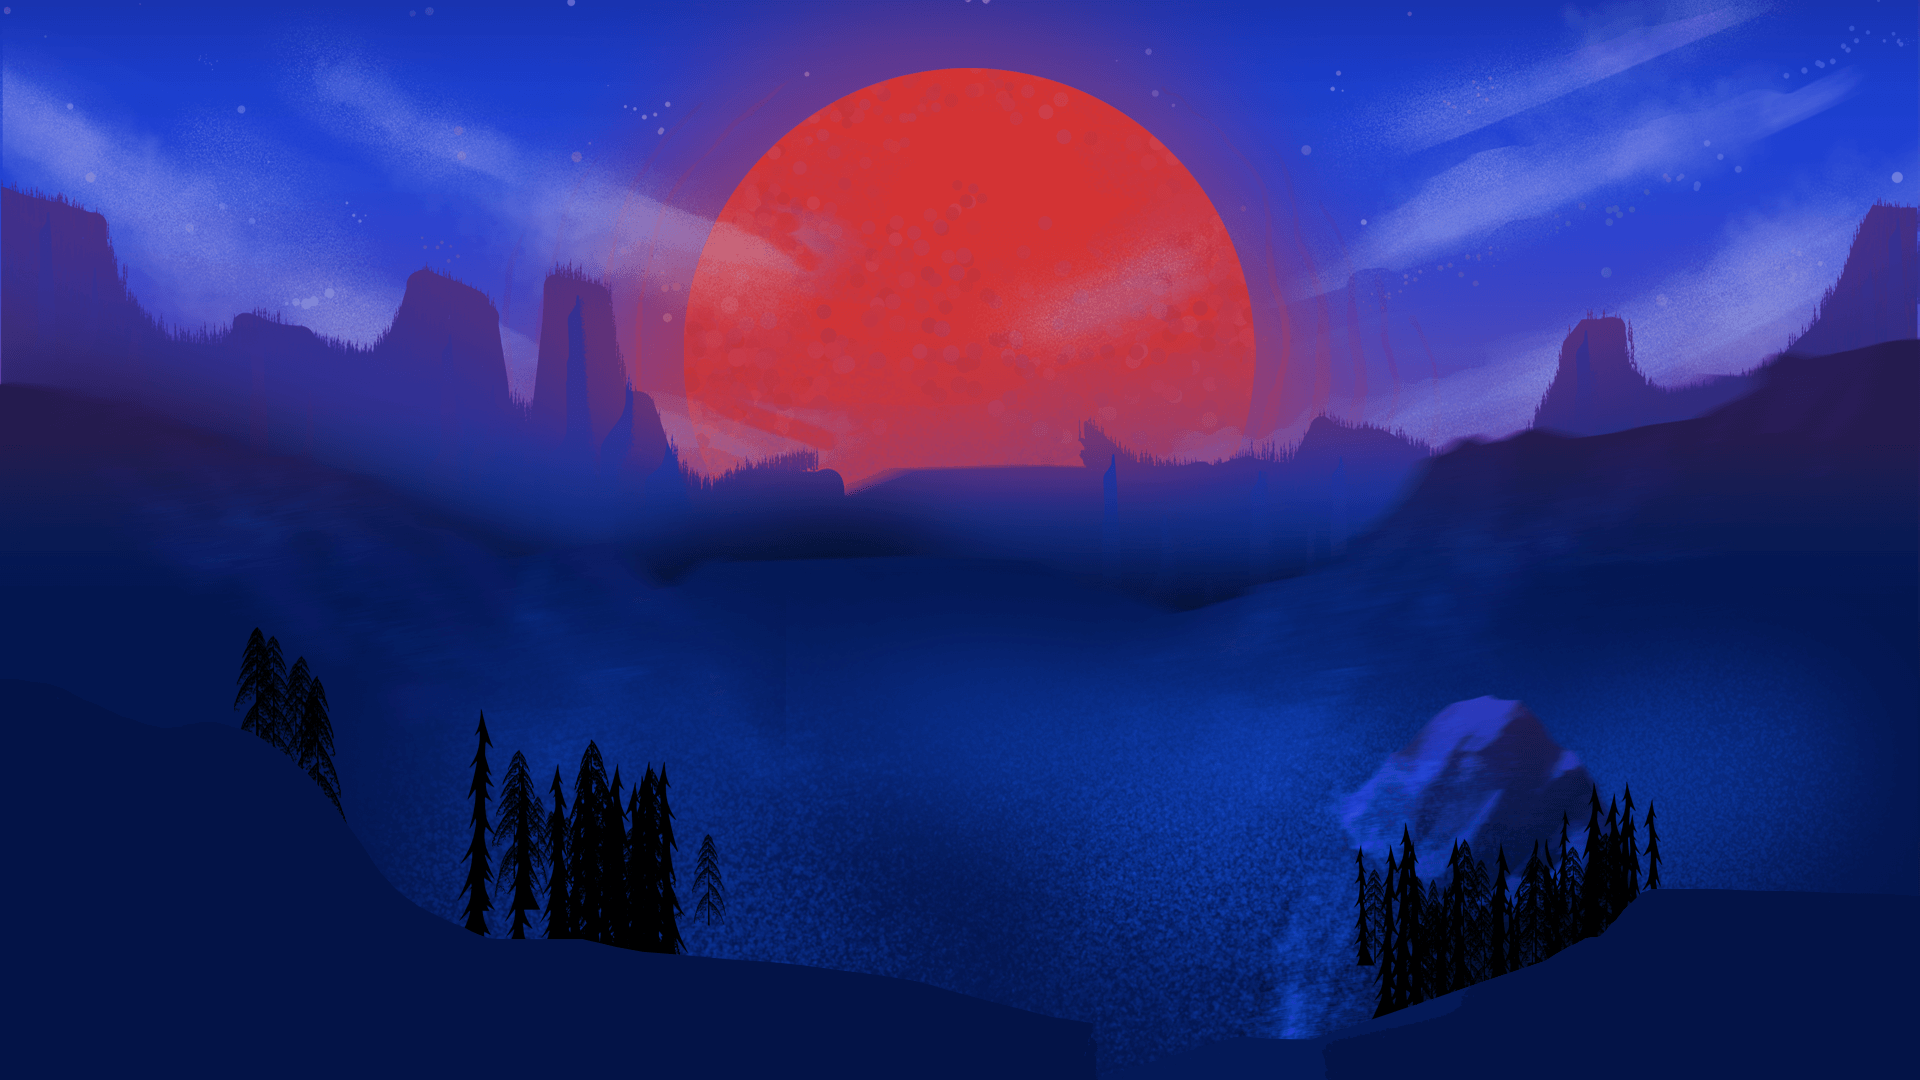
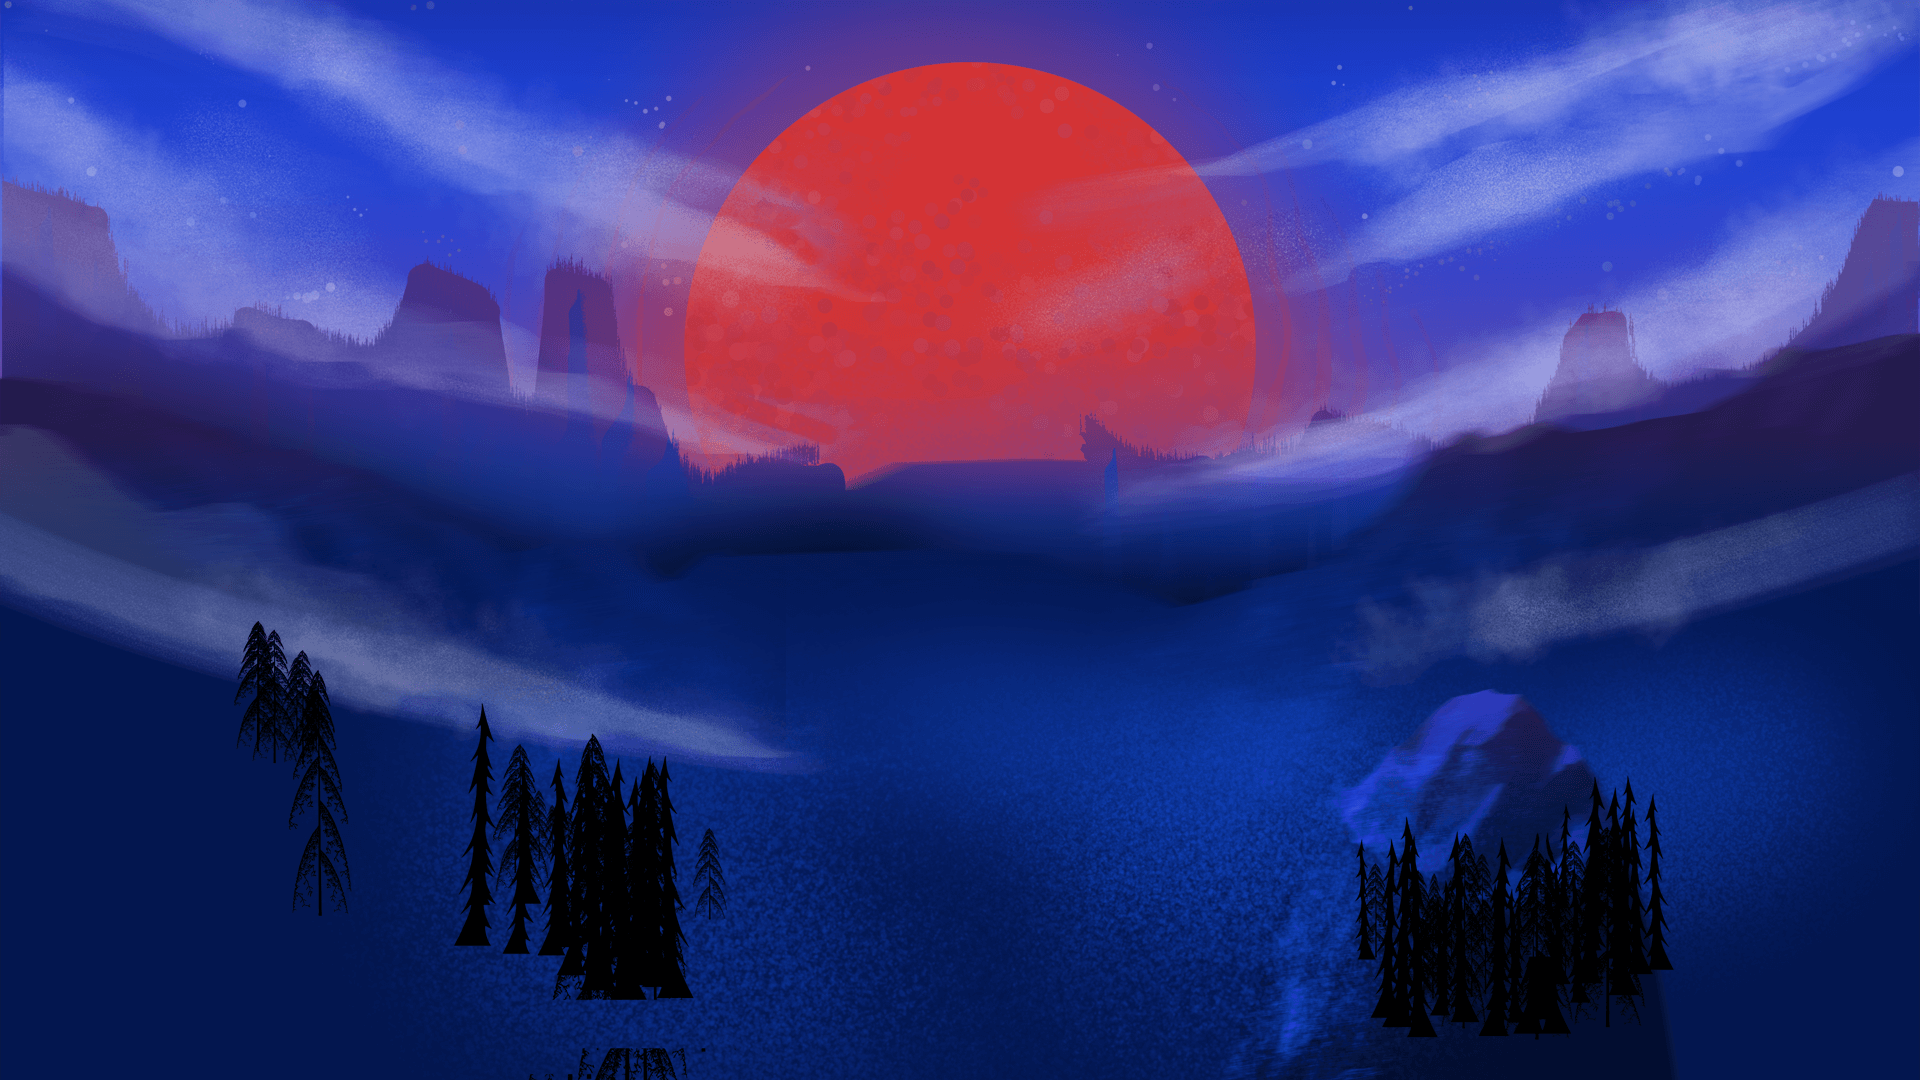
SS Section - SS2 Game Page

diff --git a/src/app/components/silentscream2page/SS2CastSection.js b/src/app/components/silentscream2page/SS2CastSection.js
@@ -56,7 +56,7 @@ const items = [
             width={350}
             height={668}
             alt="John"
-            className="w-[290px] md:w-[350px] h-[313px] md:h-[450px] object-cover object-top"
+            className="w-[200px] md:w-[350px] h-[216px] md:h-[450px] object-cover object-top"
           />
         </div>
         <div
@@ -99,7 +99,7 @@ const items = [
             width={393}
             height={650}
             alt="Alan"
-            className="w-[290px] md:w-[350px] h-[313px] md:h-[450px] object-cover object-top"
+            className="w-[200px] md:w-[350px] h-[216px] md:h-[450px] object-cover object-top"
           />
         </div>
         <div
@@ -148,7 +148,7 @@ const items = [
             width={363}
             height={644}
             alt="Chad"
-            className="w-[290px] md:w-[350px] h-[313px] md:h-[450px] object-cover object-top"
+            className="w-[200px] md:w-[350px] h-[216px] md:h-[450px] object-cover object-top"
           />
         </div>
         <div
@@ -193,7 +193,7 @@ const items = [
             width={304}
             height={667}
             alt="Tiffany"
-            className="w-[290px] md:w-[350px] h-[313px] md:h-[450px] object-cover object-top"
+            className="w-[200px] md:w-[350px] h-[216px] md:h-[450px] object-cover object-top"
           />
         </div>
         <div
@@ -240,7 +240,7 @@ const items = [
             width={373}
             height={678}
             alt="Edger"
-            className="w-[290px] md:w-[350px] h-[313px] md:h-[450px] object-cover object-top"
+            className="w-[200px] md:w-[350px] h-[216px] md:h-[450px] object-cover object-top"
           />
         </div>
         <div
@@ -292,7 +292,7 @@ const items = [
             width={296}
             height={637}
             alt="Linda"
-            className="w-[290px] md:w-[350px] h-[313px] md:h-[450px] object-cover object-top"
+            className="w-[200px] md:w-[350px] h-[216px] md:h-[450px] object-cover object-top"
           />
         </div>
         <div
@@ -334,7 +334,7 @@ const items = [
             width={344}
             height={648}
             alt="Marcus"
-            className="w-[290px] md:w-[350px] h-[313px] md:h-[450px] object-cover object-top"
+            className="w-[200px] md:w-[350px] h-[216px] md:h-[450px] object-cover object-top"
           />
         </div>
         <div

diff --git a/src/app/components/silentscream2page/ParallaxSection.js b/src/app/components/silentscream2page/ParallaxSection.js
@@ -17,38 +17,30 @@ const ParallaxSection = () => {
       className="w-full h-screen overflow-hidden relative grid place-items-center"
     >
       <motion.div
-        className="absolute inset-0 z-0"
+        className="absolute inset-0 z-0 bg-cover bg-center"
         style={{
           backgroundImage: "url(/assets/ss2-game-page/ss2-hero-bg-layer1.png)",
-          backgroundPosition: "bottom",
-          backgroundSize: "cover",
           y: layer1Y,
         }}
       ></motion.div>
       <motion.div
-        className="absolute inset-0 z-10"
+        className="absolute inset-0 z-10 bg-cover bg-center md:bg-contain"
         style={{
           backgroundImage: "url(/assets/ss2-game-page/ss2-hero-bg-layer2.png)",
-          backgroundPosition: "bottom",
-          backgroundSize: "cover",
           y: layer2Y,
         }}
       ></motion.div>
       <motion.div
-        className="absolute inset-0 z-20"
+        className="absolute inset-0 z-20 bg-cover bg-center"
         style={{
           backgroundImage: "url(/assets/ss2-game-page/ss2-hero-bg-layer3.png)",
-          backgroundPosition: "bottom",
-          backgroundSize: "cover",
           y: layer3Y,
         }}
       ></motion.div>
       <motion.div
-        className="absolute inset-0 z-30"
+        className="absolute inset-0 z-30 bg-cover bg-center md:bg-contain"
         style={{
           backgroundImage: "url(/assets/ss2-game-page/ss2-hero-bg-layer4.png)",
-          backgroundPosition: "bottom",
-          backgroundSize: "cover",
         }}
       ></motion.div>
     </div>

diff --git a/src/app/components/silentscream2page/SS2Screenshots.js b/src/app/components/silentscream2page/SS2Screenshots.js
@@ -22,6 +22,15 @@ const SS2Screenshots = () => {
     setShowModal(true);
   };
 
+  const backgroundClasses = [
+    "bg-ss2-ss-small-bg1",
+    "bg-ss2-ss-small-bg2",
+    "bg-ss2-ss-small-bg3",
+    "bg-ss2-ss-small-bg4",
+    "bg-ss2-ss-small-bg5",
+    "bg-ss2-ss-small-bg6",
+  ];
+
   return (
     <div>
       <div className="w-full flex flex-col justify-center items-center mt-2 mb-6">
@@ -47,7 +56,9 @@ const SS2Screenshots = () => {
             {screenshots.map((screenshot, index) => (
               <div
                 key={index}
-                className="bg-ss2-ss-bg w-[133px] md:w-[368px] h-[182px] md:h-[504px] px-3 md:px-6 pt-5 md:pt-9 pb-7 md:pb-16 transform transition-transform duration-300 hover:scale-105 hover:brightness-110"
+                className={`${backgroundClasses[index % backgroundClasses.length]} w-[133px] md:w-[368px] h-[182px] md:h-[504px] px-3
+                 md:px-6 pt-5 md:pt-9 pb-7 md:pb-16 bg-cover
+                  transform transition-transform duration-300 hover:scale-105 hover:brightness-110`}
                 onClick={() => openModal(screenshot)}
               >
                 <Image

diff --git a/tailwind.config.js b/tailwind.config.js
@@ -19,7 +19,13 @@ module.exports = {
       },
       backgroundImage: {
         "ss2-button-bg": "url('/assets/ss2-game-page/ss2-button1.png')",
-        "ss2-ss-bg": "url('/assets/ss2-game-page/ss2-ss-bg1.png')",
+        "ss2-ss-full-bg": "url('/assets/ss2-game-page/ss2-ss-full-bg.png')",
+        "ss2-ss-small-bg1": "url('/assets/ss2-game-page/ss2-ss-small-bg1.png')",
+        "ss2-ss-small-bg2": "url('/assets/ss2-game-page/ss2-ss-small-bg2.png')",
+        "ss2-ss-small-bg3": "url('/assets/ss2-game-page/ss2-ss-small-bg3.png')",
+        "ss2-ss-small-bg4": "url('/assets/ss2-game-page/ss2-ss-small-bg4.png')",
+        "ss2-ss-small-bg5": "url('/assets/ss2-game-page/ss2-ss-small-bg5.png')",
+        "ss2-ss-small-bg6": "url('/assets/ss2-game-page/ss2-ss-small-bg6.png')",
         "ss2-banner-ls": "url('/assets/ss2-game-page/ss2-back-banner-ls.png')",
         "ss2-banner-lm": "url('/assets/ss2-game-page/ss2-back-banner-lm.png')",
         "ss2-banner-ms": "url('/assets/ss2-game-page/ss2-back-banner-ms.png')",

diff --git a/src/app/components/silentscream2page/SS2GameSSModal.js b/src/app/components/silentscream2page/SS2GameSSModal.js
@@ -1,4 +1,3 @@
-import React from "react";
 import Image from "next/image";
 
 const SS2GameSSModal = ({ isVisible, onClose, screenshot }) => {
@@ -6,16 +5,17 @@ const SS2GameSSModal = ({ isVisible, onClose, screenshot }) => {
 
   return (
     <div
-      className="fixed inset-0 bg-black bg-opacity-25 backdrop-blur-sm flex justify-center items-center"
+      className="fixed inset-0 bg-ss2-ss-full-bg bg-no-repeat bg-black bg-opacity-25 backdrop-blur-sm 
+      flex justify-center items-center bg-center bg-contain z-30"
       onClick={() => onClose()}
     >
-      <div className="bg-black w-[80%] h-[80%]">
+      <div className="flex items-center justify-center">
         <Image
           src={screenshot.src}
           width={1771}
           height={985}
           alt={screenshot.alt}
-          className="h-full object-cover"
+          className="w-[65%] h-[65%] 2xl:w-[75%] 2xl:h-[75%] object-center pb-12"
         />
       </div>
     </div>

diff --git a/src/app/components/silentscream2page/NavbarSS2.js b/src/app/components/silentscream2page/NavbarSS2.js
@@ -5,7 +5,7 @@ import SilentScream2Logo from "../../../../public/assets/ss2-game-page/silent-sc
 
 const NavbarSS2 = () => {
   return (
-    <div className="w-full absolute flex justify-center items-center gap-6 md:gap-14 mt-2 md:mt-6 z-30">
+    <div className="w-full absolute flex justify-center items-center gap-6 md:gap-14 mt-2 md:mt-6 z-40">
       <div className="flex gap-14">
         <Link
           className="text-[16px] md:text-[24px] font-medium hover:text-silent2_red"

diff --git a/src/app/components/silentscream2page/SS2ButtonSection.js b/src/app/components/silentscream2page/SS2ButtonSection.js
@@ -2,7 +2,7 @@
 
 const SS2ButtonSection = () => {
   return (
-    <div>
+    <div className=" mt-10">
       <div className="w-full h-[50px] md:h-[100px] flex gap-6 md:gap-12 justify-center items-center">
         <button
           className="bg-ss2-button-bg w-[133px] md:w-[277px] md:h-[94px] h-[46px] bg-cover text-[17px] md:text-[35px] text-silent2_button_text font-bold pb-1 md:pb-2 transform transition-transform duration-300 hover:scale-105 hover:brightness-110"

diff --git a/src/app/our-titles/silent-scream-2/page.js b/src/app/our-titles/silent-scream-2/page.js
@@ -21,16 +21,6 @@ const Page = () => {
         {/* Hero Banner Section */}
         <ParallaxSection/>
 
-        {/* <div className="-z-10 w-full">
-          <Image
-            src={HeroBanner}
-            width={1440}
-            height={969}
-            alt="Silent Scream 2 Hero"
-            className="w-full h-[450px] md:h-auto object-cover md:object-cover"
-          />
-        </div> */}
-
         {/* Button Section */}
         <SS2ButtonSection />
 
